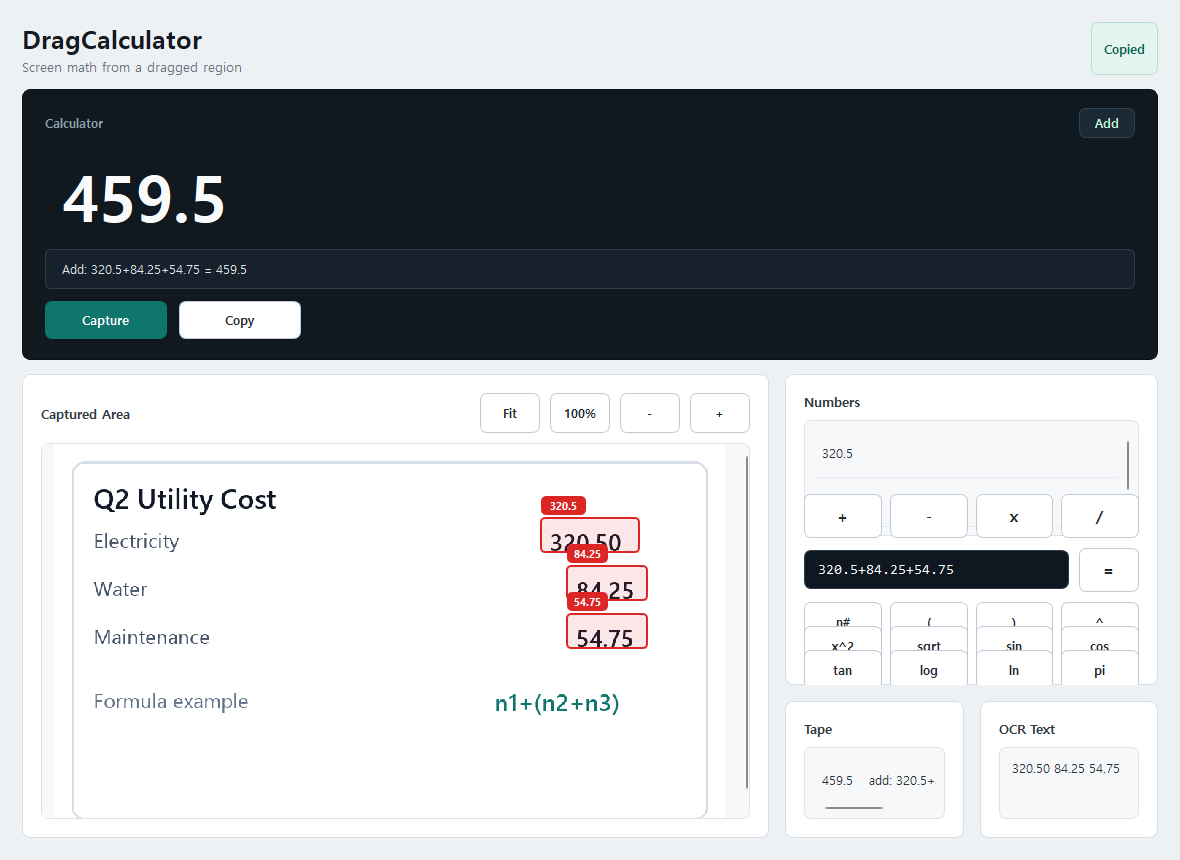
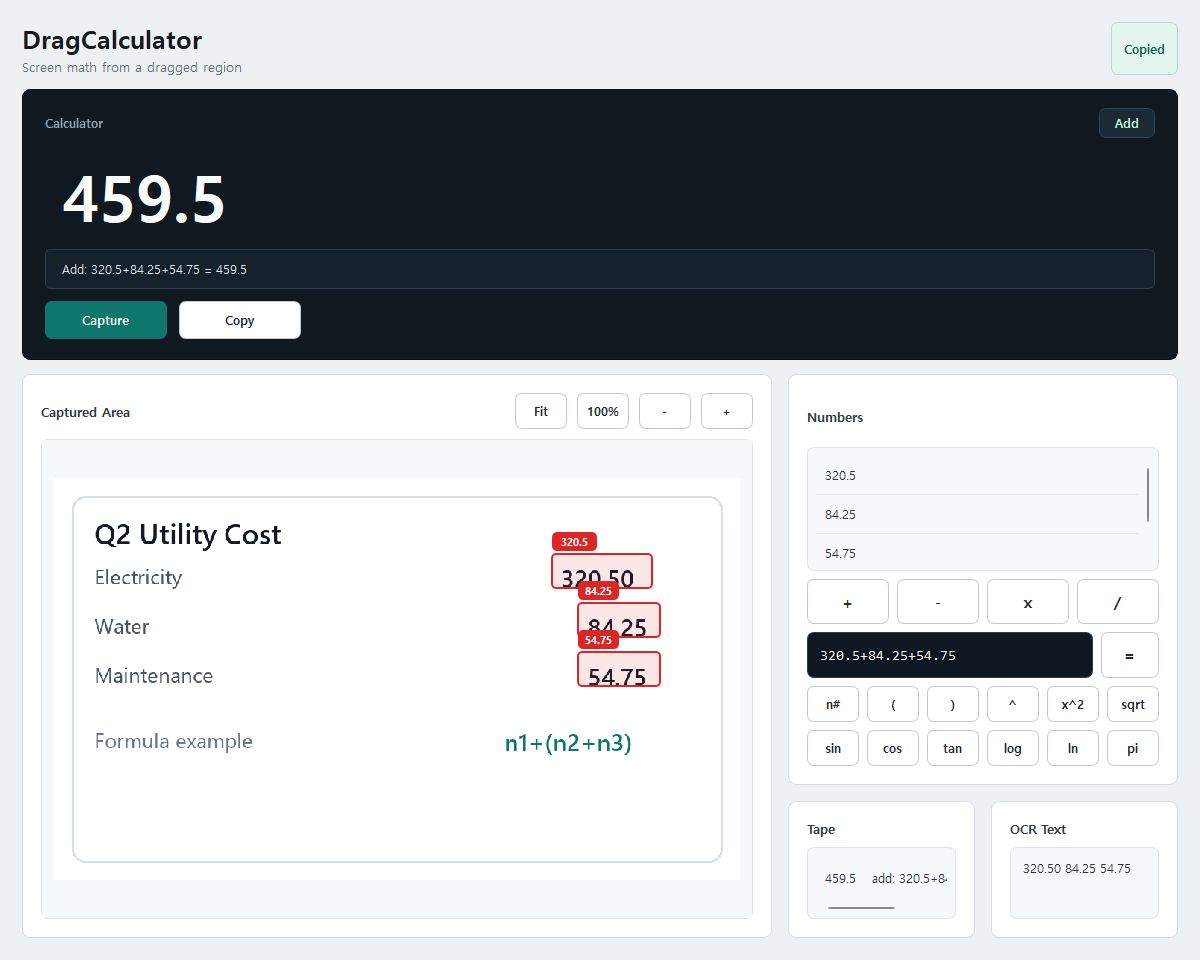
Improve calculator panel layout

diff --git a/src/dragcalculator/app.py b/src/dragcalculator/app.py
@@ -320,8 +320,8 @@ class MainWindow(QWidget):
         self._refreshing_numbers = False
 
         self.setWindowTitle("DragCalculator")
-        self.setMinimumSize(980, 760)
-        self.resize(1180, 860)
+        self.setMinimumSize(1040, 920)
+        self.resize(1200, 960)
         self.setObjectName("AppWindow")
 
         self._build_ui()
@@ -401,7 +401,7 @@ class MainWindow(QWidget):
         workspace.setSpacing(16)
         workspace.setColumnStretch(0, 4)
         workspace.setColumnStretch(1, 2)
-        workspace.setRowStretch(0, 4)
+        workspace.setRowStretch(0, 5)
         workspace.setRowStretch(1, 1)
         root.addLayout(workspace, 1)
 
@@ -445,16 +445,17 @@ class MainWindow(QWidget):
 
         numbers_panel = QFrame()
         numbers_panel.setObjectName("Panel")
+        numbers_panel.setMinimumHeight(390)
         numbers_layout = QVBoxLayout(numbers_panel)
         numbers_layout.setContentsMargins(18, 18, 18, 18)
-        numbers_layout.setSpacing(10)
+        numbers_layout.setSpacing(8)
 
         numbers_title = QLabel("Numbers")
         numbers_title.setObjectName("PanelTitle")
         self.numbers_list = QListWidget()
         self.numbers_list.setObjectName("NumbersList")
-        self.numbers_list.setMinimumHeight(116)
-        self.numbers_list.setMaximumHeight(150)
+        self.numbers_list.setMinimumHeight(118)
+        self.numbers_list.setMaximumHeight(124)
         self.numbers_list.setDragDropMode(QAbstractItemView.DragDropMode.InternalMove)
         self.numbers_list.setDefaultDropAction(Qt.DropAction.MoveAction)
         self.numbers_list.setEditTriggers(
@@ -514,7 +515,7 @@ class MainWindow(QWidget):
         self._formula_insert_buttons: list[tuple[QPushButton, str | None]] = sci_buttons
         for position, (button, _text) in enumerate(sci_buttons):
             button.setObjectName("SmallButton")
-            sci_grid.addWidget(button, position // 4, position % 4)
+            sci_grid.addWidget(button, position // 6, position % 6)
         numbers_layout.addLayout(sci_grid)
         workspace.addWidget(numbers_panel, 0, 1)
 
@@ -828,15 +829,17 @@ class MainWindow(QWidget):
             }
 
             QPushButton#SmallButton {
-                min-width: 40px;
-                min-height: 26px;
-                padding: 6px 9px;
+                min-width: 36px;
+                min-height: 24px;
+                max-height: 30px;
+                padding: 5px 7px;
             }
 
             QPushButton#CalcButton {
                 min-width: 38px;
                 min-height: 26px;
-                padding: 8px 10px;
+                max-height: 34px;
+                padding: 7px 9px;
                 font-size: 15px;
             }
 
@@ -847,7 +850,9 @@ class MainWindow(QWidget):
                 color: #f8fafc;
                 font-family: "Consolas";
                 font-size: 14px;
-                padding: 9px 11px;
+                min-height: 30px;
+                max-height: 34px;
+                padding: 7px 10px;
             }
 
             QWidget#Preview {
@@ -875,10 +880,19 @@ class MainWindow(QWidget):
                 padding: 8px;
             }
 
-            QListWidget#NumbersList::item,
+            QListWidget#NumbersList {
+                font-size: 12px;
+            }
+
+            QListWidget#NumbersList::item {
+                border-bottom: 1px solid #e4eaf0;
+                min-height: 20px;
+                padding: 4px 6px;
+            }
+
             QListWidget#HistoryList::item {
                 border-bottom: 1px solid #e4eaf0;
-                padding: 9px 6px;
+                padding: 7px 6px;
             }
 
             QListWidget#NumbersList::item:selected,

diff --git a/tools/generate_screenshots.py b/tools/generate_screenshots.py
@@ -29,7 +29,7 @@ def main() -> int:
         ocr_result,
         calculate_from_text(ocr_result.text),
     )
-    controller.window.resize(1180, 860)
+    controller.window.resize(1200, 960)
     controller.window.show()
     controller.window.fit_preview_to_width()
     app.processEvents()